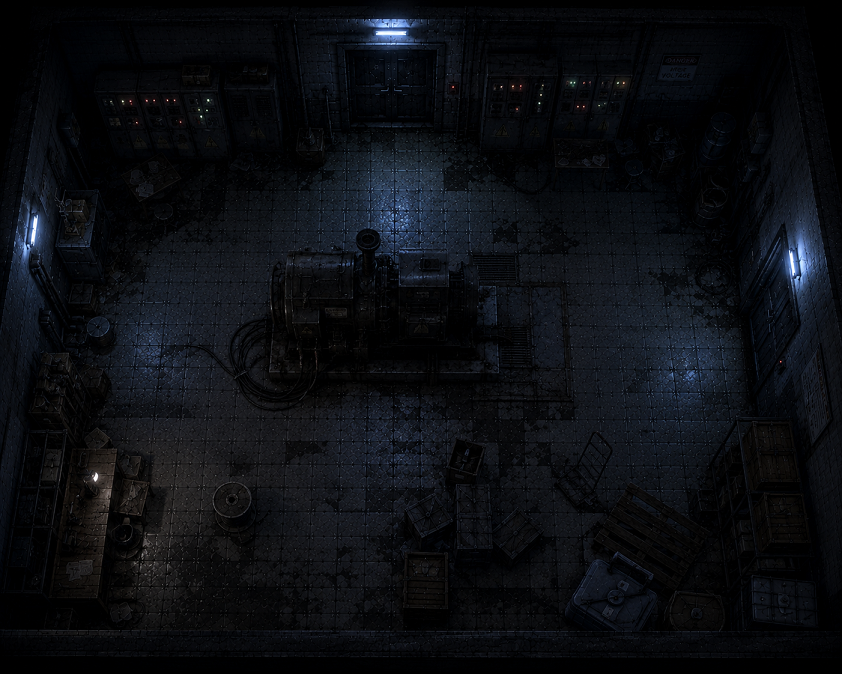
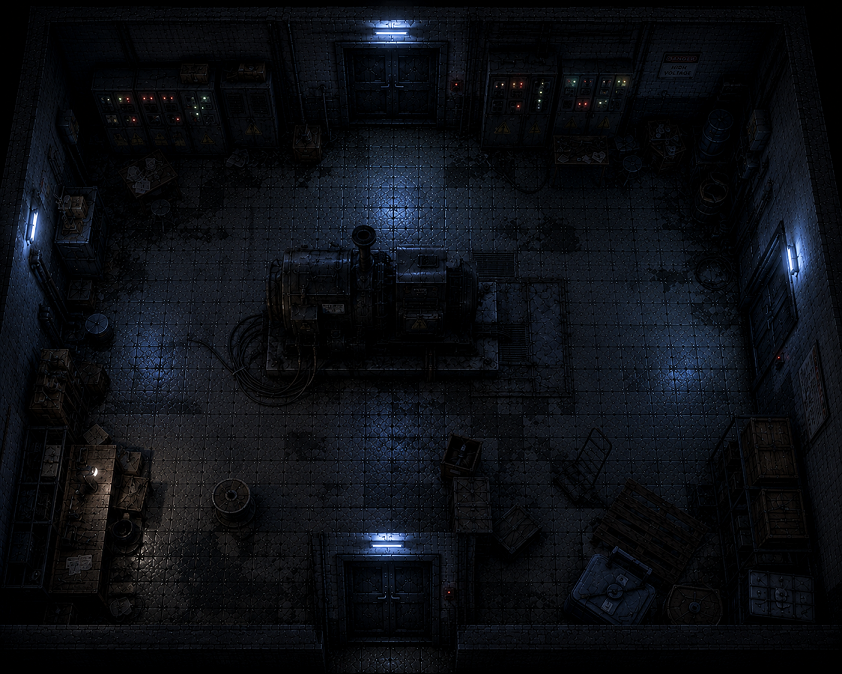
screen10

diff --git a/src/rooms.js b/src/rooms.js
@@ -242,23 +242,21 @@ export const ROOMS = {
     name: "Sala del generador",
     zone: "service",
     backgroundImage: { key: "bg_generador", path: "src/background/generador.png" },
-    // showWallVisuals: false,
+    showWallVisuals: false,
     requiresPower: true,
     walls: [
-      { x: 0, y: 0, w: 800, h: 42 },
+      { x: 0, y: 0, w: 800, h: 82 },
       { x: 0, y: 558, w: 800, h: 42 },
-      { x: 0, y: 0, w: 42, h: 600 },
-      { x: 758, y: 0, w: 42, h: 600 },
-      { x: 125, y: 92, w: 140, h: 120 },
-      { x: 535, y: 92, w: 140, h: 120 },
-      { x: 290, y: 235, w: 220, h: 130 },
-      { x: 112, y: 430, w: 190, h: 70 },
-      { x: 500, y: 430, w: 190, h: 70 },
-    ],
+      { x: 0, y: 0, w: 102, h: 600 },
+      { x: 758, y: 0, w: 102, h: 600 },
+      { x: 200, y: 422, w: 40, h: 40 },
+      { x: 265, y: 222, w: 200, h: 120 },
+      { x: 520, y: 415, w: 220, h: 130 },
+      ],
     doors: [
-      { id: "generator_to_locked", x: 360, y: 18, w: 80, h: 42, to: "locked_corridor", spawn: "from_generator", label: "Pasillo" },
-      { id: "generator_to_maintenance", x: 740, y: 260, w: 42, h: 88, to: "maintenance_access", spawn: "from_generator", label: "Mantenimiento", powerLocked: true },
-      { id: "generator_to_underground", x: 360, y: 540, w: 80, h: 42, to: "underground_entry", spawn: "from_generator", label: "Subsuelo", lockedBy: "flashlight_01", lockedMessage: "Necesitas una linterna" },
+      { id: "generator_to_locked", x: 340, y: 60, w: 120, h: 42, to: "locked_corridor", spawn: "from_generator", label: "Pasillo" },
+      { id: "generator_to_maintenance", x: 740, y: 230, w: 42, h: 118, to: "maintenance_access", spawn: "from_generator", label: "Mantenimiento", powerLocked: true },
+      { id: "generator_to_underground", x: 330, y: 500, w: 120, h: 42, to: "underground_entry", spawn: "from_generator", label: "Subsuelo", lockedBy: "flashlight_01", lockedMessage: "Necesitas una linterna" },
     ],
     spawns: {
       from_corridor: { x: 400, y: 92, angle: 90 },
@@ -281,7 +279,7 @@ export const ROOMS = {
       },
     ],
     items: [
-      { id: "medikit_generator_01", type: "medikit", name: "Medikit", x: 610, y: 145, color: 0x5fd178, heal: 35 },
+      { id: "medikit_generator_01", type: "medikit", name: "Medikit", x: 560, y: 125, color: 0x5fd178, heal: 35 },
     ],
     enemies: [
       { id: "generator_zombie_01", type: "zombie", x: 185, y: 330, speed: 58, aggroRange: 240, damage: 12, health: 60 },
@@ -297,9 +295,9 @@ export const ROOMS = {
       { x: 0, y: 558, w: 800, h: 42 },
       { x: 0, y: 0, w: 42, h: 600 },
       { x: 758, y: 0, w: 42, h: 600 },
-      { x: 140, y: 115, w: 140, h: 100 },
-      { x: 500, y: 115, w: 160, h: 100 },
-      { x: 250, y: 355, w: 300, h: 78 },
+      // { x: 140, y: 115, w: 140, h: 100 },
+      // { x: 500, y: 115, w: 160, h: 100 },
+      // { x: 250, y: 355, w: 300, h: 78 },
     ],
     doors: [
       { id: "maintenance_to_generator", x: 18, y: 260, w: 42, h: 88, to: "generator_room", spawn: "from_maintenance", label: "Generador" },
